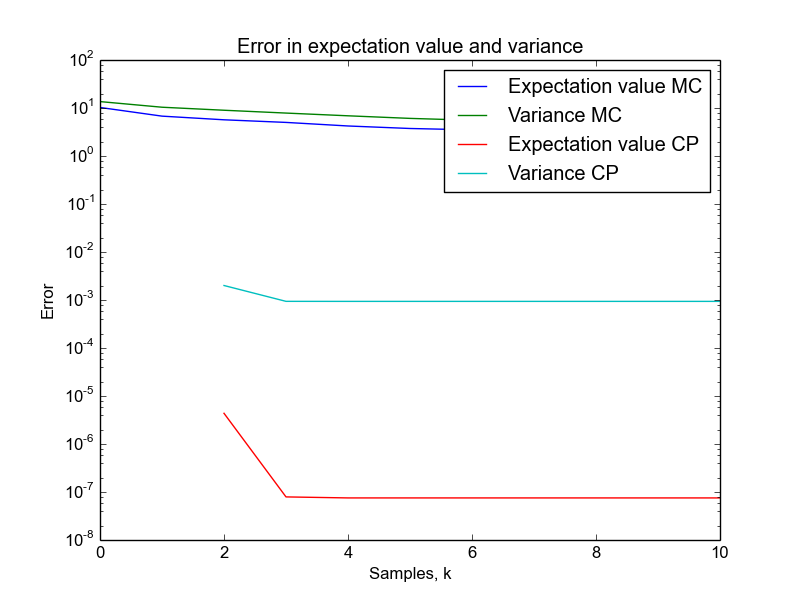
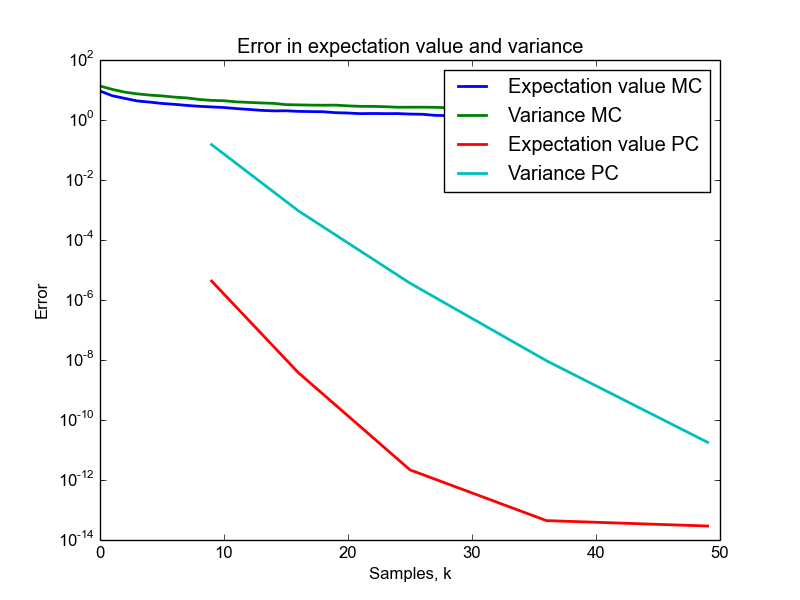
new plots

diff --git a/lecture1.tex b/lecture1.tex
@@ -93,14 +93,17 @@
   \end{align*}
   where $a$ and $I$ are uncertain.\newline
   
-  \pause
+    \pause
   Standard notation
   \begin{itemize}
     \item $u(\mathbf{x}, \mathbf{q})$ - Solution to the differential equation.
     \item $\mathbf{q}$ - Parameters with uncertanties, $a$ and $I$.
-    \item $D$ - The number of input parameters, $D=2$.
+    \item $D$ - The number of input parameters, $D=2$.\newline
   \end{itemize}
+\pause
+We start by looking at the 1D problem, where only a is uncertain and $I=1$.
 \end{frame}
+
 
 \begin{frame}
   \frametitle{Probability space}
@@ -120,33 +123,42 @@
     \begin{figure}
     \includegraphics[width=\textwidth]{MC.png}
   \end{figure}
+  \pause
 \begin{lstlisting}[language=python]
-  import chaospy as cp
-  import numpy as np
+import chaospy as cp
+import numpy as np
 
-  def u(x, a, I):
-    return I*np.exp(-a*x)
+def u(x, a, I):
+  return I*np.exp(-a*x)
     
-  N = 1000
+N = 1000
 
-  a = cp.Uniform()
-  I = cp.Uniform()
+a = cp.Uniform(0.0.1); I = cp.Uniform(8,10)
+  
+\end{lstlisting}
+\end{frame}
 
-  samplesI = I.sample(N)
-  samplesa = a.sample(N)
-  x = np.linspace(0, 10, N)
+\begin{chaospy}{Monte Carlo with chaospy}
+\begin{lstlisting}[language=python]
+samplesI = I.sample(N)
+samplesa = a.sample(N)
+x = np.linspace(0, 10, N)
 
-  U = u(x, samplesa, samplesI)
+U = u(x, samplesa, samplesI)
 
-  E = np.sum(U)/N
-  Var = np.sum(U**2)/N - E**2
+E = np.sum(U)/N
+Var = np.sum(U**2)/N - E**2
 
-  print "E = ", E
-  print "Var = ", Var
+print "E = ", E
+print "Var = ", Var
+  
+>>> E =  7.15882532019
+>>> Var =  2.16180476368
+
 \end{lstlisting}
 
-    
-\end{frame}
+\end{chaospy}
+
 
 
 \begin{frame}
@@ -220,7 +232,7 @@ Single-index\\
   \[\langle P_n,P_m\rangle =
   \begin{cases}
     \norm{P_n}^2_Q & n = m \\
-    0 & n \neq M
+    0 & n \neq m
   \end{cases}\]
 
 \end{frame}
@@ -302,7 +314,9 @@ for n in xrange(1,N):
 \begin{frame}
  \frametitle{But once again things go wrong}
   %plot the errors as we go to large M
-  
+    \begin{figure}
+    \includegraphics[width=0.8\textwidth]{gramschmidterror1.png}
+  \end{figure}
   
  \end{frame}
 
@@ -336,7 +350,13 @@ print P
 \end{lstlisting}
 \end{chaospy}
 
-  
+\begin{frame}
+ \frametitle{Things are better now}
+    %plot the errors as we go to large M
+    \begin{figure}
+    \includegraphics[width=0.8\textwidth]{gramschmidterror2.png}
+  \end{figure} 
+ \end{frame}
   
 \begin{frame}
  \frametitle{The Three Term Recurrence (TTR) relation}
@@ -433,7 +453,7 @@ print cp.E(P[3]*P[3],dist)
 \end{chaospy}
  
  
- \begin{chaospy}{Convergence of multdimensional problem}
+ \begin{chaospy}{Convergence of a multidimensional problem, code}
  \begin{lstlisting}[language=python]
 def u(x,a, I):
   return I*np.exp(-a*x)
@@ -455,9 +475,9 @@ U_hat = cp.fit_quadrature(P, nodes, weights,
 
  
 \begin{frame}
- \frametitle{Convergence}
+ \frametitle{Convergence of a multidimensional problem}
 \begin{figure}
-    \includegraphics[width=0.8\textwidth]{MC_convergence_2D.png}
+    \includegraphics[width=0.85\textwidth]{MC_convergence_2D.png}
   \end{figure}
 
  \end{frame}
@@ -471,7 +491,7 @@ U_hat = cp.fit_quadrature(P, nodes, weights,
 
 \begin{frame}
   \frametitle{The curse of dimensionality}
-  \includegraphics[height = 0.9\textheight]{dimensionality.png}
+  \includegraphics[height = 0.85\textheight]{dimensionality.png}
 
 \end{frame}
 
@@ -479,7 +499,7 @@ U_hat = cp.fit_quadrature(P, nodes, weights,
 \begin{frame}
   \frametitle{Gibb's Phenomena, discontinues methods are troublesome}
   \begin{figure}
-  \includegraphics[width=0.8\textwidth]{gibbs.png}
+  \includegraphics[width=0.85\textwidth]{gibbs.png}
   \end{figure}
 
   \end{frame}

diff --git a/figures/MC_convergence_2D.py b/figures/MC_convergence_2D.py
@@ -3,7 +3,7 @@ import pylab as pl
 import numpy as np
 
 Nt = 10**2
-N = 10
+N = 50
 
 def E_analytical(x):
     return 90*(1-np.exp(-0.1*x))/(x)
@@ -13,21 +13,17 @@ def V_analytical(x):
     return 1220*(1-np.exp(-0.2*x))/(3*x) - (90*(1-np.exp(-0.1*x))/(x))**2
 
 
-#def u(t,a, I):
-#    return I*np.exp(-a*t)
-
 def u(x,a, I):
-    #ax = np.outer(a,x)
     return I*np.exp(-a*x)
  
 a = cp.Uniform(0, 0.1)
 I = cp.Uniform(8, 10)
 dist = cp.J(a,I)
-T = np.linspace(0.000000001, 10, Nt)
+T = np.linspace(0, 10, Nt+1)[1:]
 dt = T[1] - T[0]
 
 
-    
+
 def MC():
     samples_a = a.sample(N)
     samples_I = I.sample(N)
@@ -65,39 +61,31 @@ totalvarianceMC = np.divide(totalvarianceMC, reruns)
 
 errorCP = []
 varCP = []
-a_m = cp.E(a)
-I_m = cp.E(I)
-m = 2
 
-K = xrange(m,N+1)
-for n in K:
+K = []
 
-    
-    
-    P = cp.orth_ttr(m, dist)
-    nodes, weights = cp.generate_quadrature(n, dist, rule="G")
-
+N = 5
+for n in xrange(1,N+1):
+    P = cp.orth_ttr(n, dist)
+    nodes, weights = cp.generate_quadrature(n+1, dist, rule="G")
+    K.append(len(nodes[0]))
     i1,i2 = np.mgrid[:len(weights), :Nt]
     solves = u(T[i2],nodes[0][i1],nodes[1][i1])
 
     U_hat = cp.fit_quadrature(P, nodes, weights, solves)
-    #errorCP.append(dt*np.sum(np.abs(cp.E(u,dist) - cp.E(U_hat,dist))))
-    #varCP.append(dt*np.sum(np.abs(cp.Var(u,dist) - cp.Var(U_hat,dist))))
-    #errorCP.append(dt*np.sum(np.abs(E_analytical(T) - cp.E(U_hat,dist))))
-    #varCP.append(dt*np.sum(np.abs(V_analytical(T) - cp.Var(U_hat,dist))))
-    errorCP.append(dt*np.sum(np.abs(E_analytical(T)) - cp.E(U_hat,dist)))
-    varCP.append(dt*np.sum(np.abs(V_analytical(T)) - cp.Var(U_hat,dist)))
+    errorCP.append(dt*np.sum(np.abs(E_analytical(T) - cp.E(U_hat,dist))))
+    varCP.append(dt*np.sum(np.abs(V_analytical(T) - cp.Var(U_hat,dist))))
     
 
-pl.plot(totalerrorMC[:])
-pl.plot(totalvarianceMC[:])
-pl.plot(K,errorCP)
-pl.plot(K, varCP)
+pl.plot(totalerrorMC[:],linewidth=2)
+pl.plot(totalvarianceMC[:],linewidth=2)
+pl.plot(K,errorCP,linewidth=2)
+pl.plot(K, varCP,linewidth=2)
 pl.xlabel("Samples, k")
 pl.ylabel("Error")
 pl.yscale('log')
 pl.title("Error in expectation value and variance ")
-pl.legend(["Expectation value MC","Variance MC","Expectation value CP","Variance CP"])
+pl.legend(["Expectation value MC","Variance MC","Expectation value PC","Variance PC"])
 pl.savefig("MC_convergence_2D.png")
 
 pl.show()

diff --git a/figures/MC_convergence_1D.py b/figures/MC_convergence_1D.py
@@ -3,18 +3,21 @@ import pylab as pl
 import numpy as np
 
 Nt = 10**2
-N = 30
+
 
 def E_analytical(x):
     #return (1-np.exp(-10*x))/(10*x)
     #return np.exp(-10*x)*(np.exp(-5*x)-1)/(5*x)
-    return 10*(1-np.exp(-0.1*x))/(x)
+    out = 10*(1-np.exp(-0.1*x))/(x)
+    out[x==0] = 11
+    return out
 
     
 def V_analytical(x):
     #return (1-np.exp(-20*x))/(20*x) - ((1-np.exp(-10*x))/(10*x))**2
-    return 5*(1-np.exp(-0.2*x))/(x) - (10*(1-np.exp(-0.1*x))/(x))**2
-
+    out = 5*(1-np.exp(-0.2*x))/(x) - (10*(1-np.exp(-0.1*x))/(x))**2
+    out[x==0] = 21./20 - 11**2
+    return out
 
 def u(x,a):
     ax = np.outer(a,x)
@@ -22,11 +25,12 @@ def u(x,a):
 
  
 a = cp.Uniform(0, 0.1)
-x = np.linspace(0.0000000001, 10, Nt)
+x = np.linspace(0, 10, Nt)[1:]
 dt = x[1] - x[0]
 
 
-    
+N = 22
+   
 def MC():
     samples_a = a.sample(N)
 
@@ -66,14 +70,16 @@ varPoly = []
 
 errorCP = []
 varCP = []
-m = 2
 
-K = range(m,N+1)
+K = []
+N = 10
 
-for k in K:
-    P, norm = cp.orth_ttr(m, a, retall=True)
+for k in range(1,N+1):
+    P, norm = cp.orth_ttr(k, a, retall=True)
     N = len(P)
-    nodes, weights = cp.generate_quadrature(k, a, rule="G")
+    nodes, weights = cp.generate_quadrature(2*k, a, rule="E")
+    K.append(len(nodes[0]))
+    
     solves = u(x,nodes[0])
     U_hat, c = cp.fit_quadrature(P, nodes, weights, solves,retall=True)
     
@@ -107,22 +113,21 @@ for k in K:
     errorPoly.append(dt*np.sum(np.abs(E_analytical(x) - cp.E(U_hat,a))))
     varPoly.append(dt*np.sum(np.abs(V_analytical(x) - cp.Var(U_hat,a))))
 
+pl.plot(totalerrorMC, linewidth=2)
+pl.plot(totalvarianceMC, linewidth=2)
 
-pl.plot(totalerrorMC)
-pl.plot(totalvarianceMC)
+pl.plot(K,errorPoly, linewidth=2)
+pl.plot(K,varPoly, linewidth=2)
 
-pl.plot(K,errorPoly)
-pl.plot(K,varPoly)
-
-pl.plot(K,errorCP)
-pl.plot(K,varCP)
-
+pl.plot(K,errorCP, linewidth=2)
+pl.plot(K,varCP, linewidth=2)
 
 pl.xlabel("Samples, k")
 pl.ylabel("Error")
 pl.yscale('log')
 pl.title("Error in expectation value and variance ")
-pl.legend(["Expectation value MC","Variance MC","Expectation value Poly","Variance Poly","Expectation value CP","Variance CP"])
+pl.legend(["Expectation value MC","Variance MC","Expectation value Poly","Variance Poly","Expectation value PC","Variance PC"])
+#pl.savefig("Convergence_repeat.png")
 pl.savefig("MC_convergence_1D_3.png")
 
 pl.show()

diff --git a/figures/dimensionality.py b/figures/dimensionality.py
@@ -12,12 +12,12 @@ legend = []
 pl.figure()
 for m in M:
     N = [cp.terms(m, d) for d in D]
-    pl.plot(D,N)
+    pl.plot(D,N,linewidth=2)
     legend.append("M = %d" % (m))
     
 pl.xlabel("Dimensions, D")
 pl.ylabel("Terms, N")
-pl.title("Number of terms for a polynomial in a dimension")
+pl.title("Number of terms for a polynomial")
 pl.legend(legend, loc=2)
 pl.axis([1,d,1,500])
 pl.savefig("dimensionality.png")
